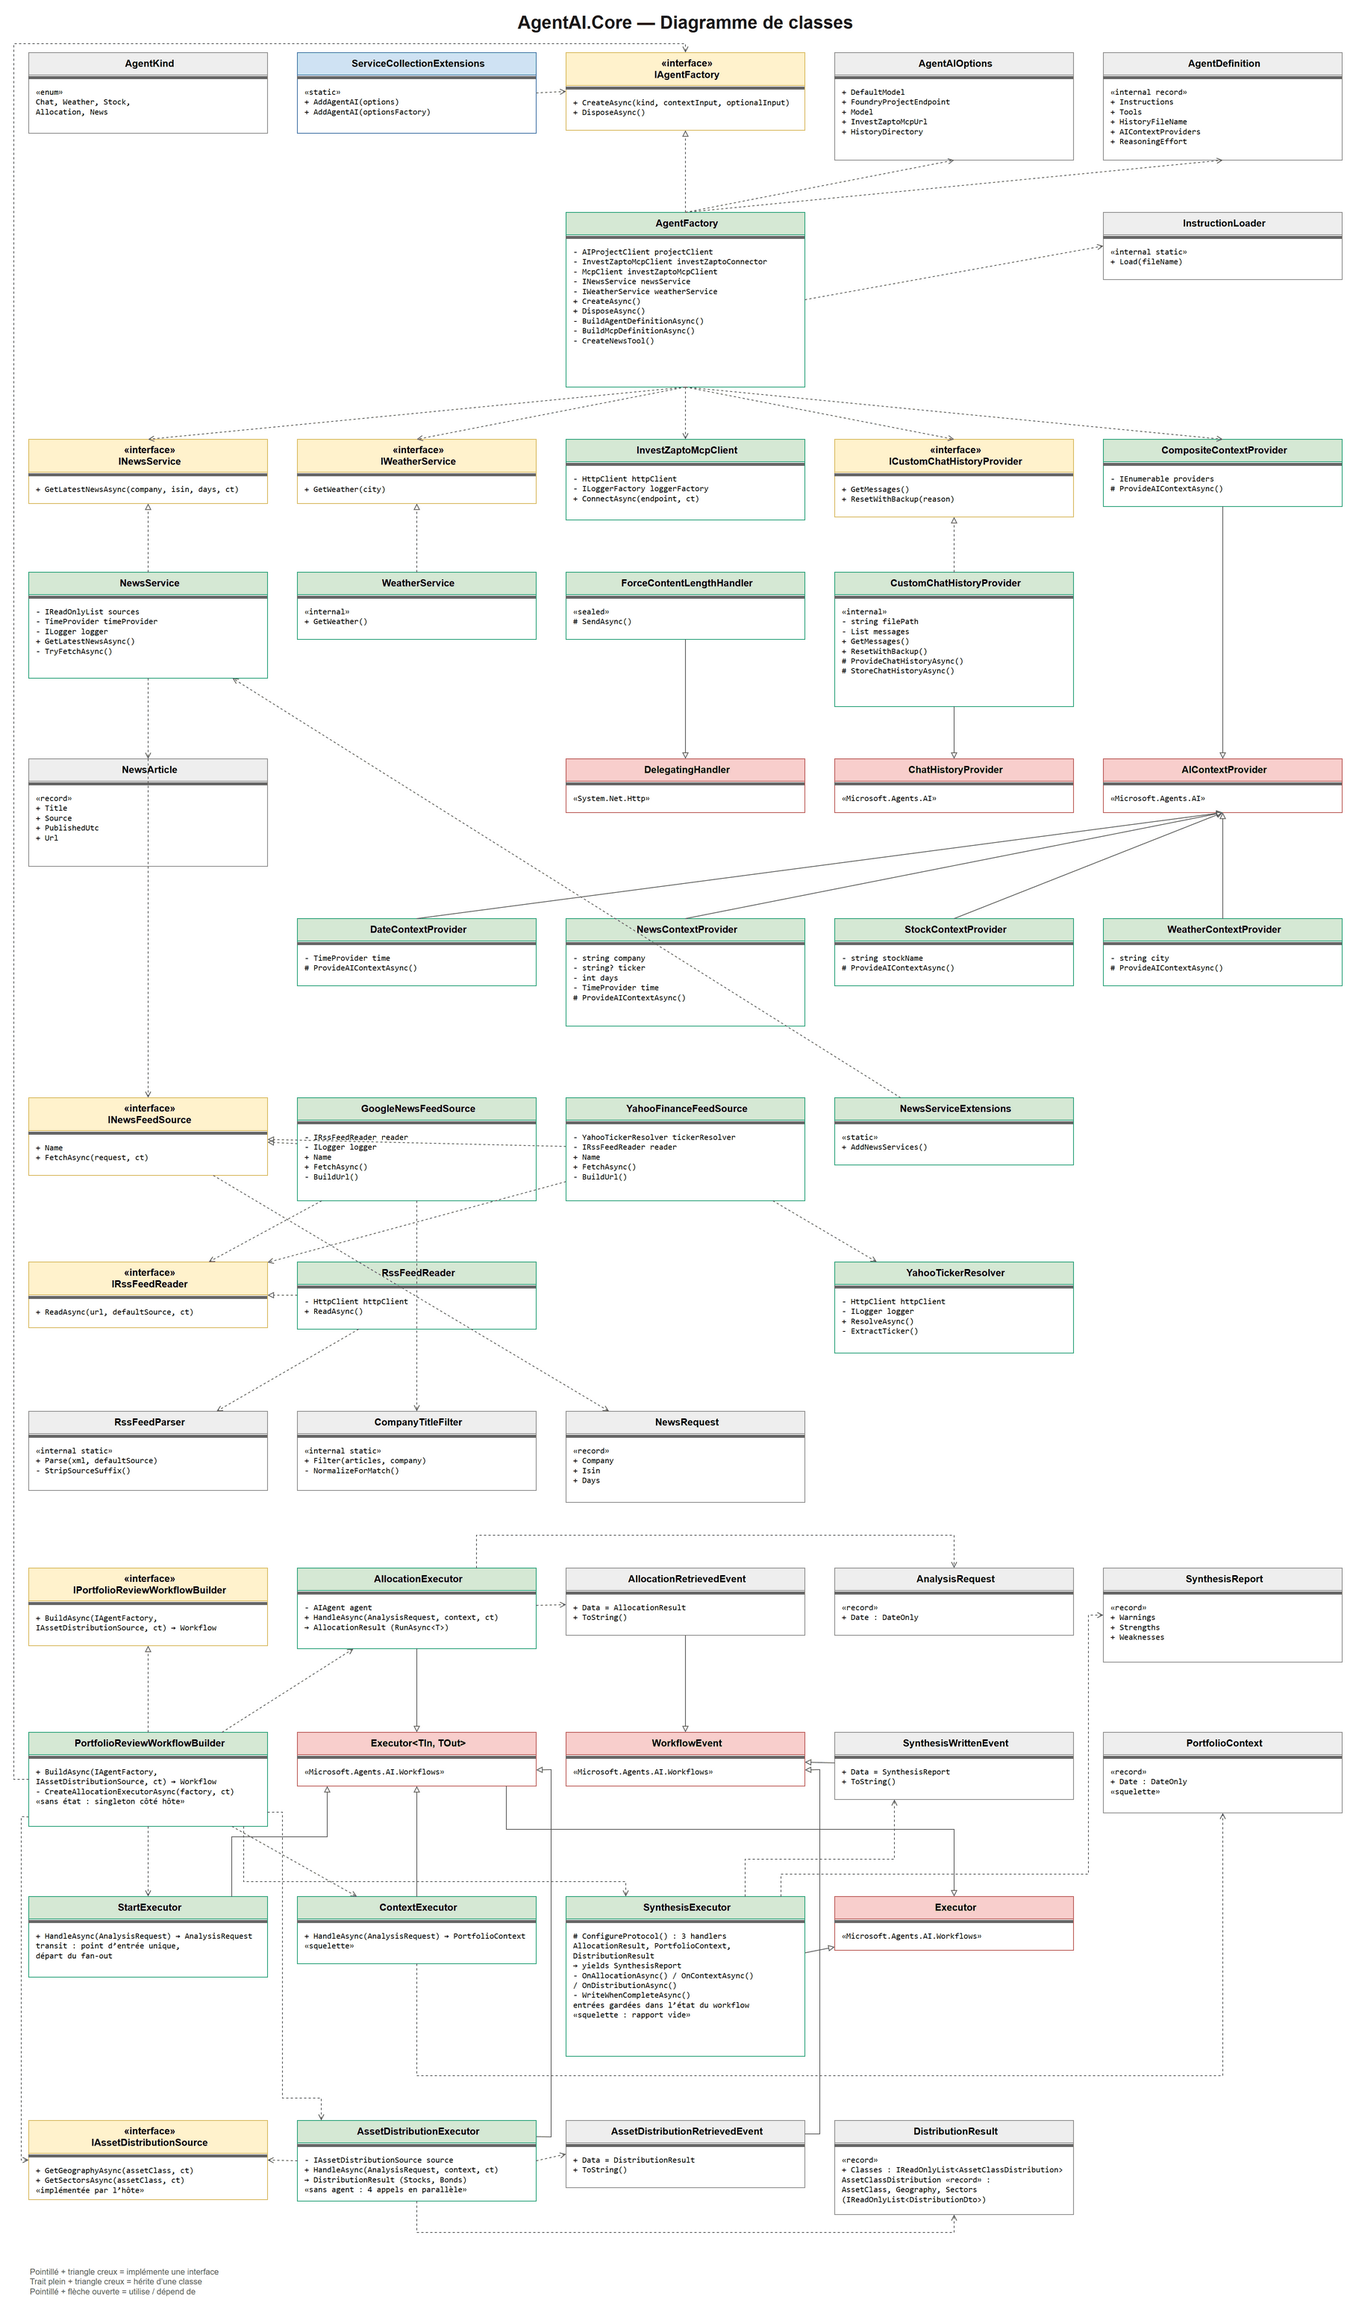
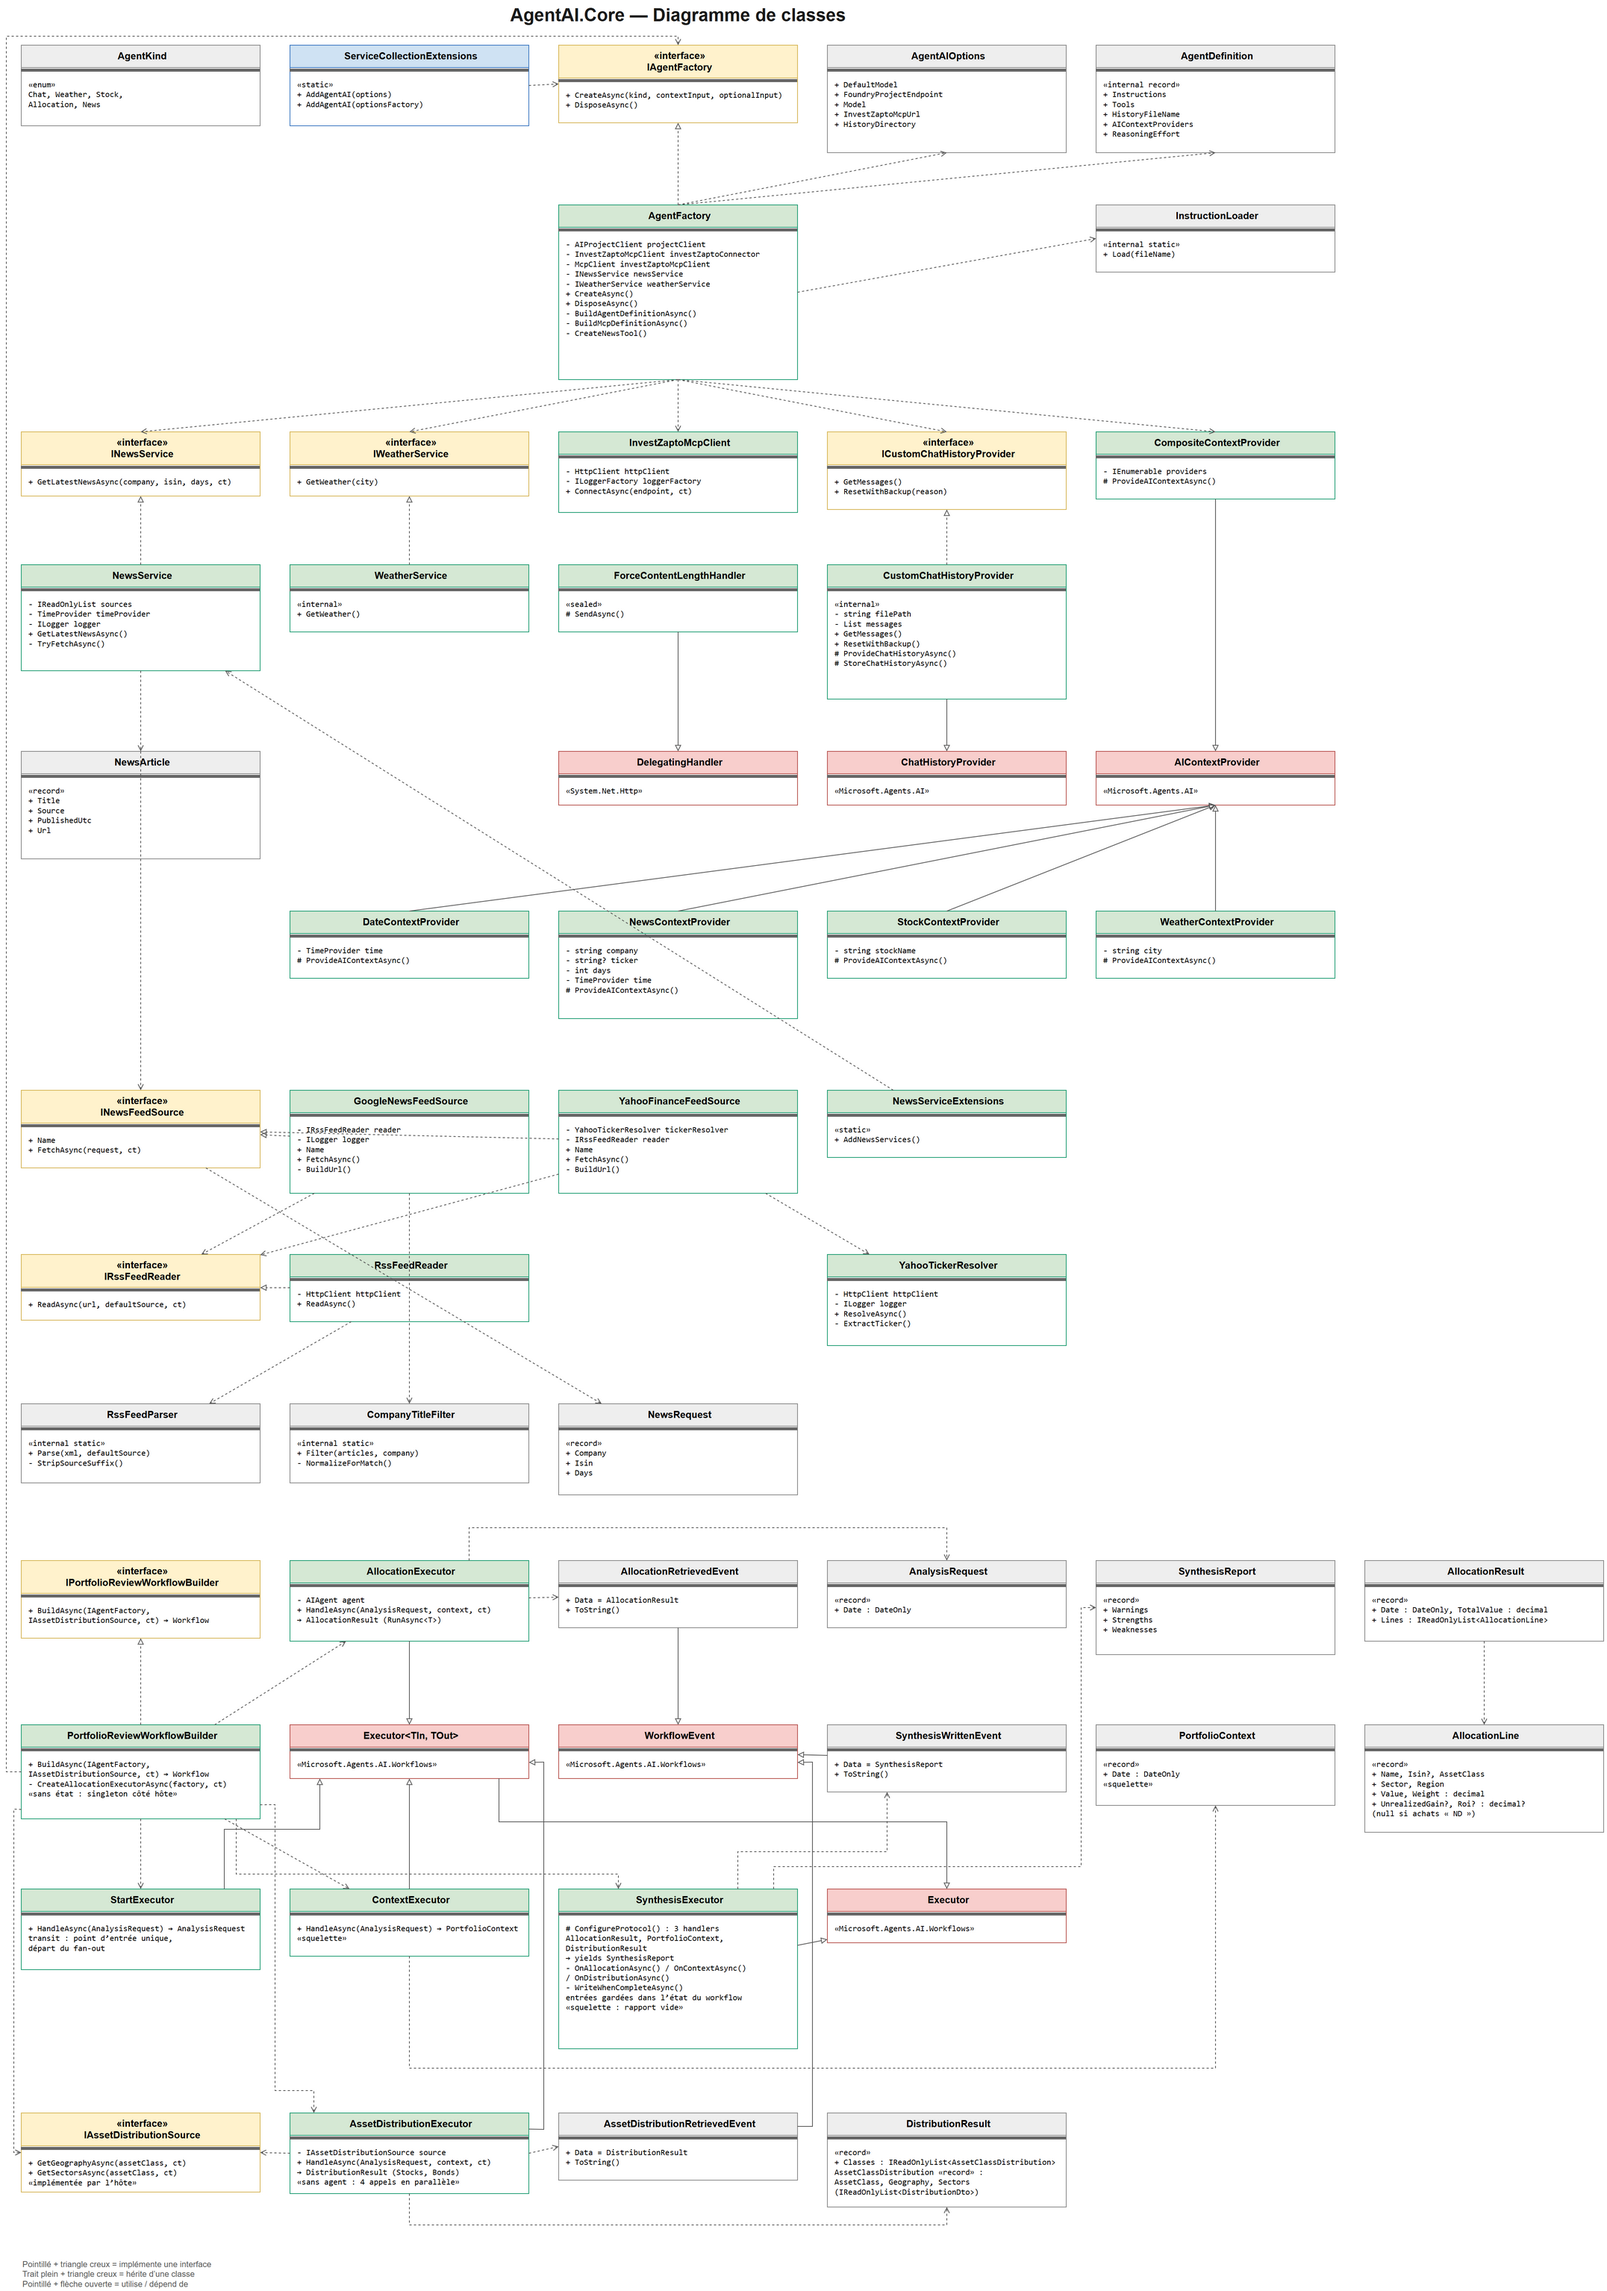
refactor(shared): déplace AllocationResult et AllocationLine dans les messages du workflow
Shared porte le contrat Api <-> clients ; ces deux types ne servent qu'au workflow
PortfolioReview d'AgentAI.Core (aucun usage dans Api, Client ou Client.Shared).
Règle retenue : Shared ne reçoit que ce qui sort du workflow pour être affiché.

- AgentAI.Core/Workflows/PortfolioReview/Messages/AllocationResult.cs : déplacé depuis Shared/Models, namespace AgentAI
- AgentAI.Core/Workflows/PortfolioReview/Messages/AllocationLine.cs : déplacé depuis Shared/Models, namespace AgentAI
- AgentAI.Core/Workflows/PortfolioReview/Events/AllocationRetrievedEvent.cs : using Shared.Models retiré
- AgentAI.Core/Workflows/PortfolioReview/Executors/AllocationExecutor.cs : using Shared.Models retiré
- AgentAI.Core/Workflows/PortfolioReview/Executors/SynthesisExecutor.cs : using Shared.Models retiré
- Maui.Tests/AllocationExecutorTests.cs, Maui.Tests/SynthesisExecutorTests.cs : using Shared.Models retiré
- AgentAI.Core/Docs/CLAUDE.md : AllocationResult (+ AllocationLine) ajoutés à la liste des messages
- AgentAI.Core/Docs/agentai-class-diagram.drawio / .png : rectangles AllocationResult et AllocationLine
- Shared/Docs/CLAUDE.md : AgentAI.Core ajouté aux projets qui référencent Shared
- Client.Shared/Docs/CLAUDE.md : retrait de la référence obsolète à AllocationResult

diff --git a/AgentAI.Core/Workflows/PortfolioReview/Messages/AllocationResult.cs b/AgentAI.Core/Workflows/PortfolioReview/Messages/AllocationResult.cs
@@ -1,3 +1,3 @@
-namespace InvestissementsDashboard.Shared.Models;
+namespace AgentAI;
 
 public record AllocationResult(DateOnly Date, decimal TotalValue, IReadOnlyList<AllocationLine> Lines);

diff --git a/Maui.Tests/AllocationExecutorTests.cs b/Maui.Tests/AllocationExecutorTests.cs
@@ -1,5 +1,4 @@
 using AgentAI;
-using InvestissementsDashboard.Shared.Models;
 using Microsoft.Agents.AI;
 using Microsoft.Agents.AI.Workflows;
 using Microsoft.Extensions.AI;

diff --git a/AgentAI.Core/Workflows/PortfolioReview/Messages/AllocationLine.cs b/AgentAI.Core/Workflows/PortfolioReview/Messages/AllocationLine.cs
@@ -1,4 +1,4 @@
-namespace InvestissementsDashboard.Shared.Models;
+namespace AgentAI;
 
 public record AllocationLine(
     string Name,

diff --git a/Maui.Tests/SynthesisExecutorTests.cs b/Maui.Tests/SynthesisExecutorTests.cs
@@ -1,5 +1,4 @@
 using AgentAI;
-using InvestissementsDashboard.Shared.Models;
 using Microsoft.Agents.AI.Workflows;
 using Xunit;
 

diff --git a/AgentAI.Core/Workflows/PortfolioReview/Executors/AllocationExecutor.cs b/AgentAI.Core/Workflows/PortfolioReview/Executors/AllocationExecutor.cs
@@ -1,4 +1,3 @@
-using InvestissementsDashboard.Shared.Models;
 using Microsoft.Agents.AI;
 using Microsoft.Agents.AI.Workflows;
 

diff --git a/AgentAI.Core/Workflows/PortfolioReview/Events/AllocationRetrievedEvent.cs b/AgentAI.Core/Workflows/PortfolioReview/Events/AllocationRetrievedEvent.cs
@@ -1,4 +1,3 @@
-using InvestissementsDashboard.Shared.Models;
 using Microsoft.Agents.AI.Workflows;
 
 namespace AgentAI;

diff --git a/AgentAI.Core/Workflows/PortfolioReview/Executors/SynthesisExecutor.cs b/AgentAI.Core/Workflows/PortfolioReview/Executors/SynthesisExecutor.cs
@@ -1,4 +1,3 @@
-using InvestissementsDashboard.Shared.Models;
 using Microsoft.Agents.AI.Workflows;
 
 namespace AgentAI;

diff --git a/Client.Shared/Docs/CLAUDE.md b/Client.Shared/Docs/CLAUDE.md
@@ -273,7 +273,7 @@ Second seam optionnel, **non enregistré** par `AddInvestissementsClient` (même
 
 ### 7.13 IPortfolioReviewRunner — page Analyse (MAUI uniquement)
 
-Troisième seam optionnel, **non enregistré** par `AddInvestissementsClient` (même raison que §7.10) : `IPortfolioReviewRunner.RunAsync(DateOnly date, ct)` → `Task` exécute le workflow `PortfolioReview` d'`AgentAI.Core` (allocation et contexte en parallèle, puis synthèse) et se termine quand la synthèse est produite. **Aucun résultat** n'est exposé tant que la synthèse est un squelette ; son type de sortie sera alors défini dans `Shared/Models` (comme `AllocationResult`), cette bibliothèque ne référençant pas `AgentAI.Core`. Distinct d'`IAgentRunner`, qui renvoie le texte libre d'un agent.
+Troisième seam optionnel, **non enregistré** par `AddInvestissementsClient` (même raison que §7.10) : `IPortfolioReviewRunner.RunAsync(DateOnly date, ct)` → `Task` exécute le workflow `PortfolioReview` d'`AgentAI.Core` (allocation et contexte en parallèle, puis synthèse) et se termine quand la synthèse est produite. **Aucun résultat** n'est exposé tant que la synthèse est un squelette ; son type de sortie sera alors défini dans `Shared/Models`, cette bibliothèque ne référençant pas `AgentAI.Core`. Distinct d'`IAgentRunner`, qui renvoie le texte libre d'un agent.
 
 - `MainViewModel.IsAnalysisAvailable` (runner présent) affiche le lien **Analyse** (`/analyse`) juste après **Suivi** dans la barre d'application.
 - `AnalysisViewModel` (scoped, runner optionnel, `TimeProvider` — enregistré par `AddInvestissementsClient` en `TryAddSingleton(TimeProvider.System)`) : `IsAvailable`, `IsRunning`, `IsCompleted`, `Error`, `LaunchAsync()` (date du jour, réinitialise l'état, journalise et capture l'erreur, ignore l'annulation) et `Cancel()`. Seule la fin de l'analyse est signalée.

diff --git a/AgentAI.Core/Docs/CLAUDE.md b/AgentAI.Core/Docs/CLAUDE.md
@@ -35,7 +35,7 @@ AgentAI.Core/
 │   ├── IPortfolioReviewWorkflowBuilder.cs  # BuildAsync(IAgentFactory, IAssetDistributionSource, ct) → Workflow
 │   ├── PortfolioReviewWorkflowBuilder.cs   # implémentation sans état (singleton côté hôte)
 │   ├── Executors/              # StartExecutor (transit), AllocationExecutor (→ AllocationResult), ContextExecutor (→ PortfolioContext, squelette), AssetDistributionExecutor (→ DistributionResult), SynthesisExecutor (→ SynthesisReport, squelette)
-│   ├── Messages/               # AnalysisRequest, PortfolioContext, DistributionResult (+ AssetClassDistribution), SynthesisReport
+│   ├── Messages/               # AnalysisRequest, AllocationResult (+ AllocationLine), PortfolioContext, DistributionResult (+ AssetClassDistribution), SynthesisReport
 │   └── Events/                 # AllocationRetrievedEvent, AssetDistributionRetrievedEvent, SynthesisWrittenEvent
 ├── Providers/                  # AIContextProvider : Composite, Date, News, Stock, Weather
 ├── History/                    # ICustomChatHistoryProvider, CustomChatHistoryProvider (historique JSON sur disque)

diff --git a/Shared/Docs/CLAUDE.md b/Shared/Docs/CLAUDE.md
@@ -2,7 +2,7 @@
 
 ## 1. Rôle
 
-Bibliothèque `net8.0` sans aucun paquet, référencée par `Api`, `Client.Shared` (donc `Client` et `Maui`) et les projets de tests. Elle porte le contrat de données entre l'Api et les clients : DTOs sérialisés en JSON, constantes de taxonomie, et un parseur. Elle reste en net8.0 pour être référençable par tous les projets (net8/net9/net10).
+Bibliothèque `net8.0` sans aucun paquet, référencée par `Api`, `Client.Shared` (donc `Client` et `Maui`), `AgentAI.Core` et les projets de tests. Elle porte le contrat de données entre l'Api et les clients : DTOs sérialisés en JSON, constantes de taxonomie, et un parseur. Elle reste en net8.0 pour être référençable par tous les projets (net8/net9/net10).
 
 ## 2. Contenu
 
